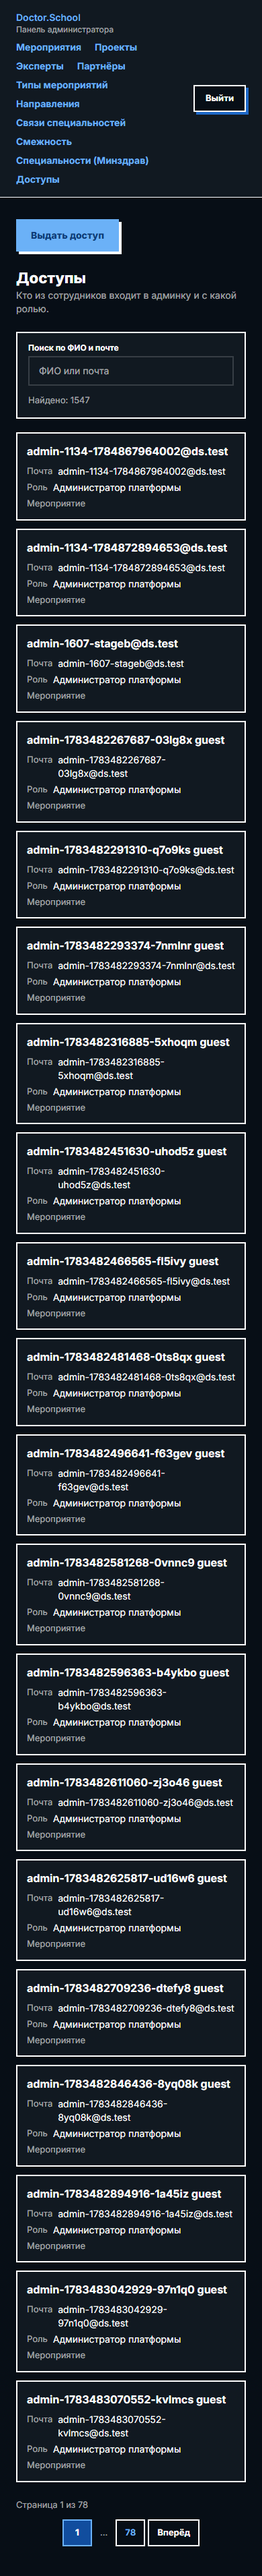
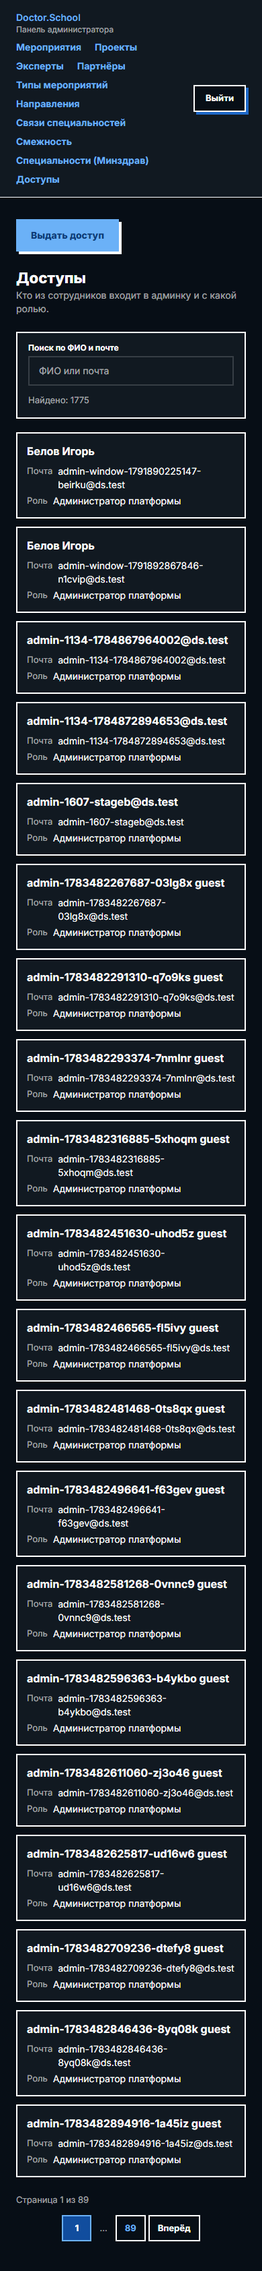
fix(2901): the mobile record card omits an empty field
A DataTable card no longer prints a label with nothing after it: a column
whose fullValue is blank for the row is left off that row's card; the
desktop grid keeps the empty cell. Re-captured staff-access-list mobile.

Refs #2901

Claude-Session: https://claude.ai/code/session_01Az2buKXwC85E6Ax5gA4vnv

Changed region(s): [[0.0615, 0.0, 0.9231, 0.9976], [0.7385, 0.0312, 0.9538, 0.0624], [0.9231, 0.1247, 0.9538, 0.1559]]

diff --git a/packages/design-system/src/blocks/data-table.tsx b/packages/design-system/src/blocks/data-table.tsx
@@ -35,7 +35,9 @@ import {
  *    the title WRAPS in full and a muted context line sits under it, so a long RU
  *    taxonomy name is never truncated. Below `md` (768px) the grid is
  *    replaced by stacked record CARDS — the same data, labelled — so a phone NEVER
- *    scrolls horizontally and no column silently leaves the screen.
+ *    scrolls horizontally and no column silently leaves the screen. A card omits
+ *    a field whose `fullValue` is blank (hide a block until it has content); the
+ *    grid keeps that empty cell.
  * 3. THE STATE SET. `loading` (skeleton rows under an already-drawn header) / `error` /
  *    `empty — no records` / `empty — no results for the current filters` / `populated`,
  *    plus the paginated footer. The two empty situations are two `EmptyState` variants
@@ -104,7 +106,10 @@ export interface DataTableColumn<Row> {
   /**
    * Plain-text full value, put on the cell's `title`. REQUIRED in spirit for any
    * `ellipsis` column carrying free text — it is the "the full value stays
-   * reachable" half of the truncation rule.
+   * reachable" half of the truncation rule. A blank value (`""` after trim) also
+   * leaves the field off that row's mobile record card — a term with no value
+   * reads as missing data; the desktop cell stays so the grid keeps its shape.
+   * Without `fullValue` the card always shows the field.
    */
   fullValue?: (row: Row) => string;
   /** Keep this column off the mobile record card (rarely right — default false). */
@@ -596,7 +601,14 @@ export function DataTable<Row>({
         </div>
         <dl className="flex flex-col gap-1">
           {columns
-            .filter((column) => !column.hideOnCard)
+            .filter(
+              (column) =>
+                !column.hideOnCard &&
+                // An empty field is left off the card: a label with nothing after
+                // it reads as missing data, while the desktop grid keeps the empty
+                // cell so its columns stay aligned.
+                column.fullValue?.(row).trim() !== "",
+            )
             .map((column) => (
               <div key={column.key} className="flex gap-2 text-sm">
                 <dt className="text-caption text-muted-foreground">

diff --git a/packages/design-system/src/blocks/data-table.test.tsx b/packages/design-system/src/blocks/data-table.test.tsx
@@ -197,6 +197,36 @@ describe("<DataTable>", () => {
     expect(truncated?.className).toContain("truncate");
   });
 
+  it("omits a field from the mobile record card when its full value is empty, keeping the desktop cell", () => {
+    const rows: Row[] = [
+      { id: "empty", title: "Без родителя", parent: "", count: 1 },
+      { id: "filled", title: "С родителем", parent: "Терапия", count: 2 },
+    ];
+    const { container } = renderTable({ rows });
+    const cards = Array.from(container.querySelectorAll("dl"));
+    expect(cards).toHaveLength(2);
+    const terms = (card: Element) =>
+      Array.from(card.querySelectorAll("dt")).map((dt) => dt.textContent);
+    expect(terms(first(cards))).toEqual(["Материалов"]);
+    expect(terms(cards[1] as Element)).toEqual([
+      "Родительское направление",
+      "Материалов",
+    ]);
+    // Desktop keeps the column shape: every row still has its (empty) cell.
+    const bodyRows = container.querySelectorAll("tbody tr");
+    expect(bodyRows).toHaveLength(2);
+    expect(first(Array.from(bodyRows)).querySelectorAll("td")).toHaveLength(3);
+  });
+
+  it("keeps a card field whose column defines no full value, whatever it renders", () => {
+    const rows: Row[] = [{ id: "zero", title: "Ноль", parent: "Терапия", count: 0 }];
+    const { container } = renderTable({ rows });
+    const terms = Array.from(container.querySelectorAll("dl dt")).map(
+      (dt) => dt.textContent,
+    );
+    expect(terms).toContain("Материалов");
+  });
+
   it("wraps the desktop record title in full without a line clamp", () => {
     const { container } = renderTable({
       rowHref: (row) => `/directions/${row.id}`,

diff --git a/.changeset/2901-card-omits-empty-field.md b/.changeset/2901-card-omits-empty-field.md
@@ -1,0 +1,5 @@
+---
+"@ds/design-system": patch
+---
+
+`<DataTable>`: the mobile record card omits a field whose column `fullValue` is blank for that row, so a card never shows a label with nothing after it; the desktop grid keeps the empty cell. Columns without `fullValue` are unchanged.
